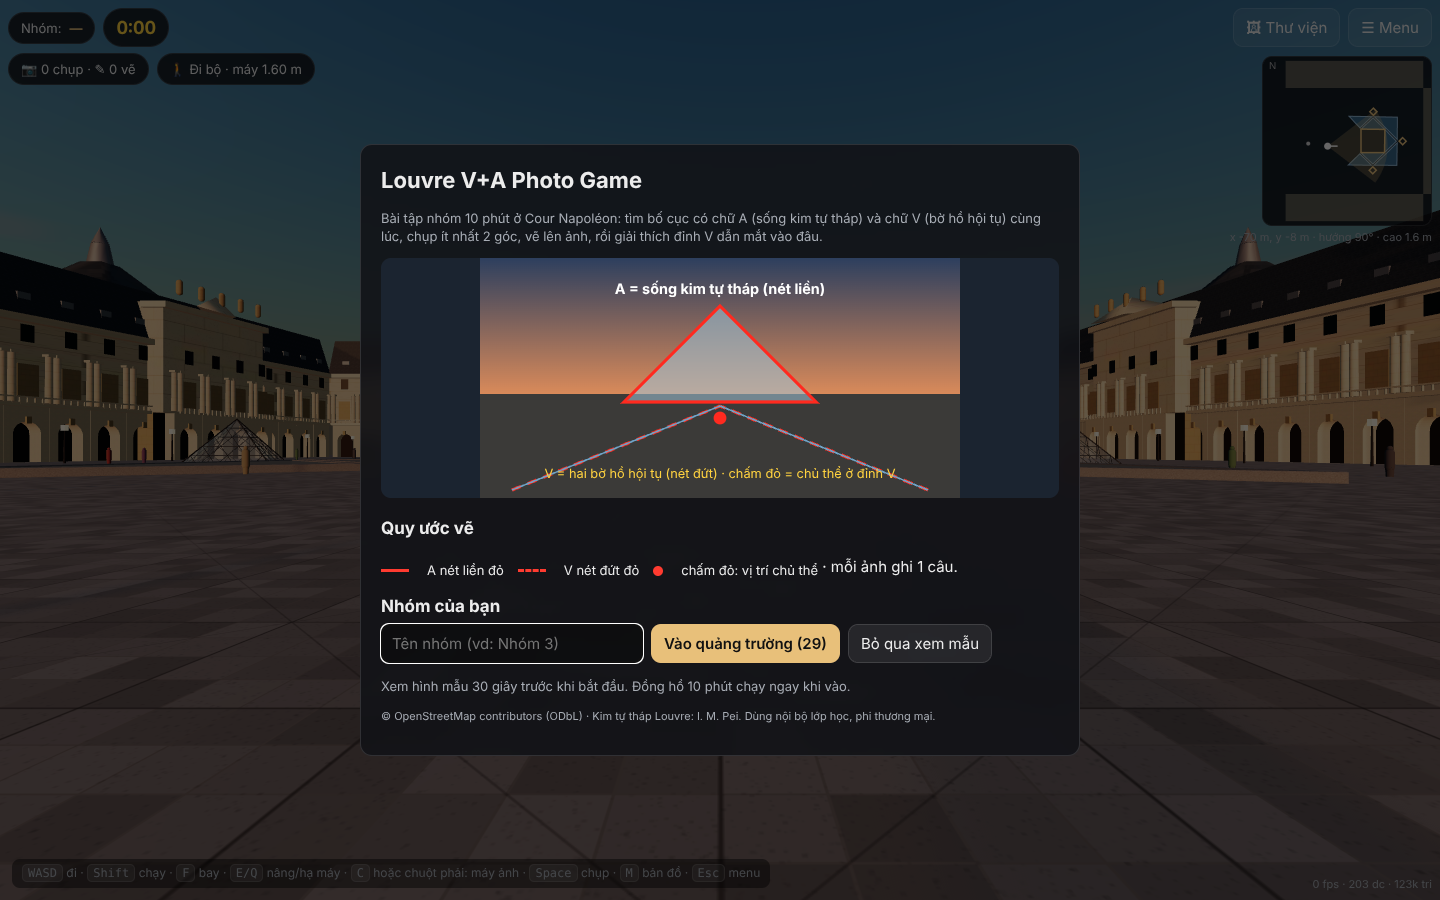
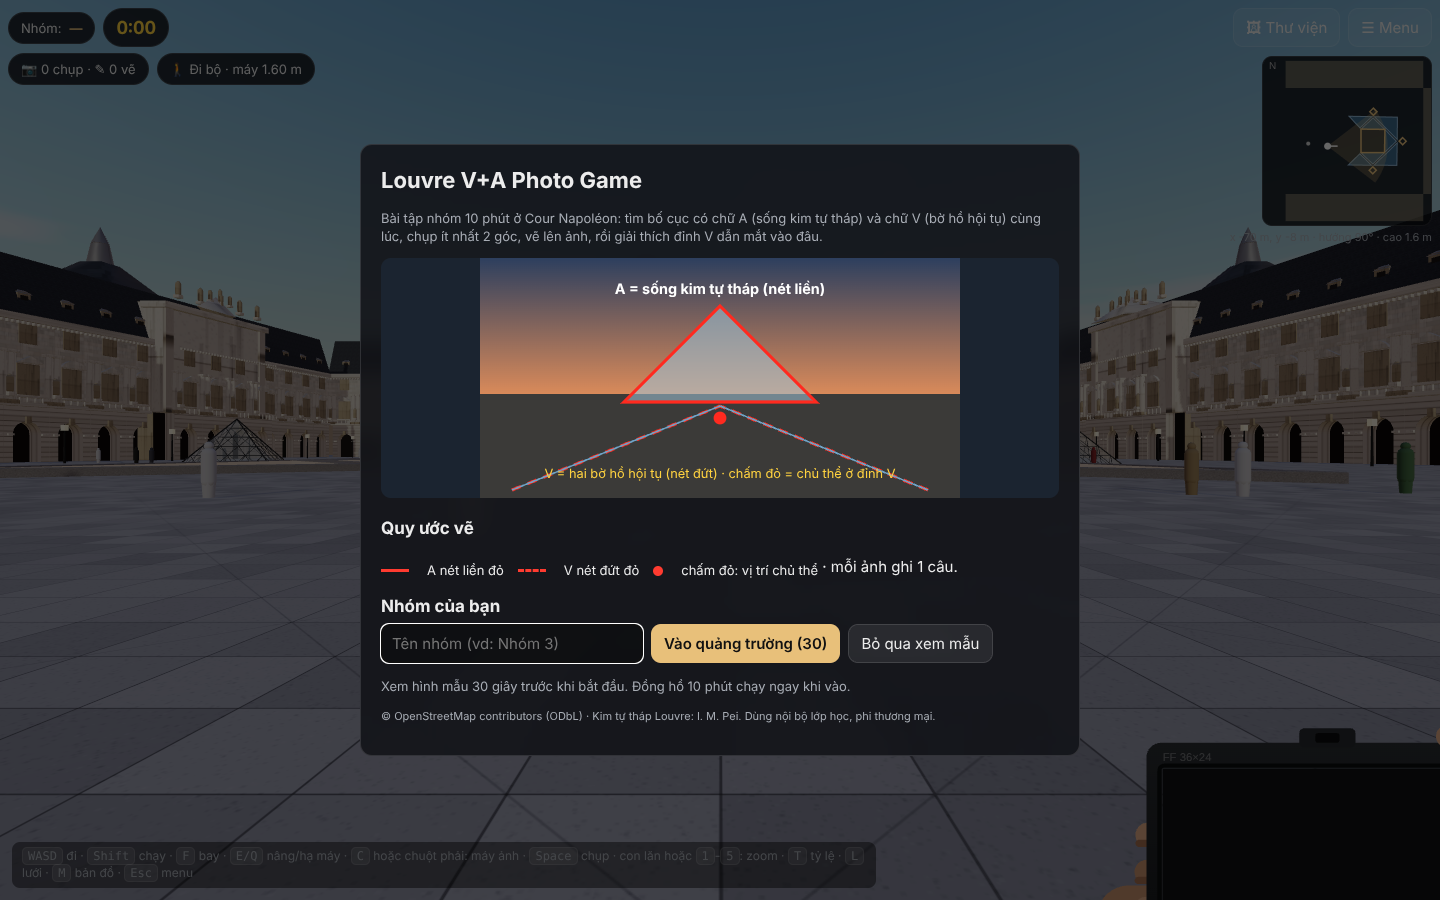
Cập nhật ảnh bằng chứng QA (tay cầm máy, hướng mặt trời lặn), chỉnh env hoàng hôn, sửa selector test
Claude-Session: https://claude.ai/code/session_018m7zeaPxP4EtanWFobMmbW

diff --git a/production/qa/evidence/README.md b/production/qa/evidence/README.md
@@ -4,9 +4,8 @@
 
 - `01-intro.png`: Màn hình vào: tên nhóm, hình mẫu V+A, quy ước
 - `02-spawn-walk.png`: Đi bộ từ điểm xuất phát phía tây, nhìn về kim tự tháp
-- `03-answer-1-camera.png`: Vị trí 1: khung ngắm, V bờ hồ + A kim tự tháp
-- `03-answer-2-camera.png`: Vị trí 2: khung ngắm, V bờ hồ + A kim tự tháp
-- `03-answer-4-camera.png`: Vị trí 4: khung ngắm, V bờ hồ + A kim tự tháp
+- `03b-west-sunset-hands.png`: Nhìn thẳng về mặt trời lặn (hướng tây), tay cầm máy hạ thấp
+- `03c-west-sunset-camera.png`: Cùng góc, máy giơ lên: khung ngắm là màn LCD trong tay
 - `04-flycam-high.png`: Fly cam 35 m: toàn cảnh quảng trường
 - `05-window-richelieu-overcast.png`: Cửa sổ Richelieu, preset trời mưa, nhìn xuống hồ N
 - `06-pool-edge-noon-16mm.png`: Sát mép hồ E, nắng trưa, 16 mm
